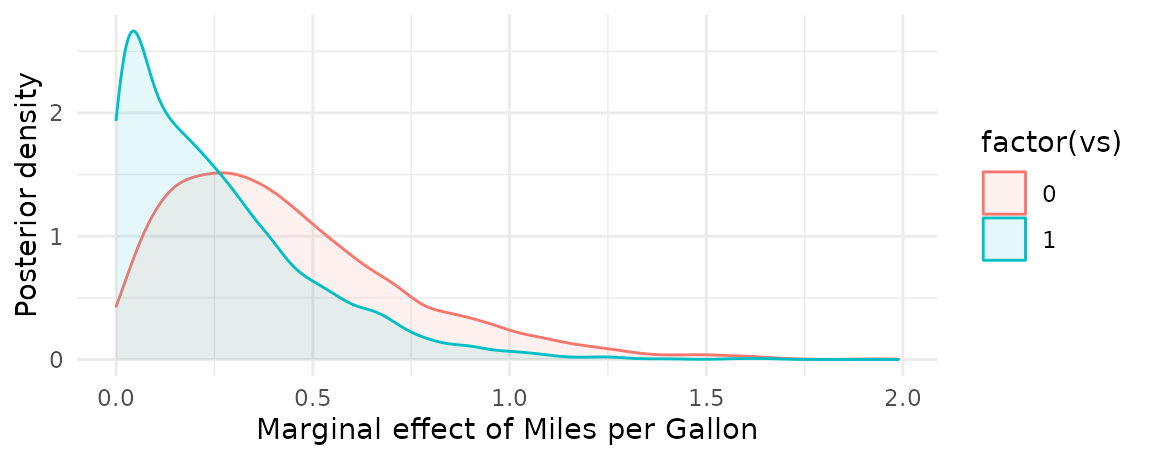
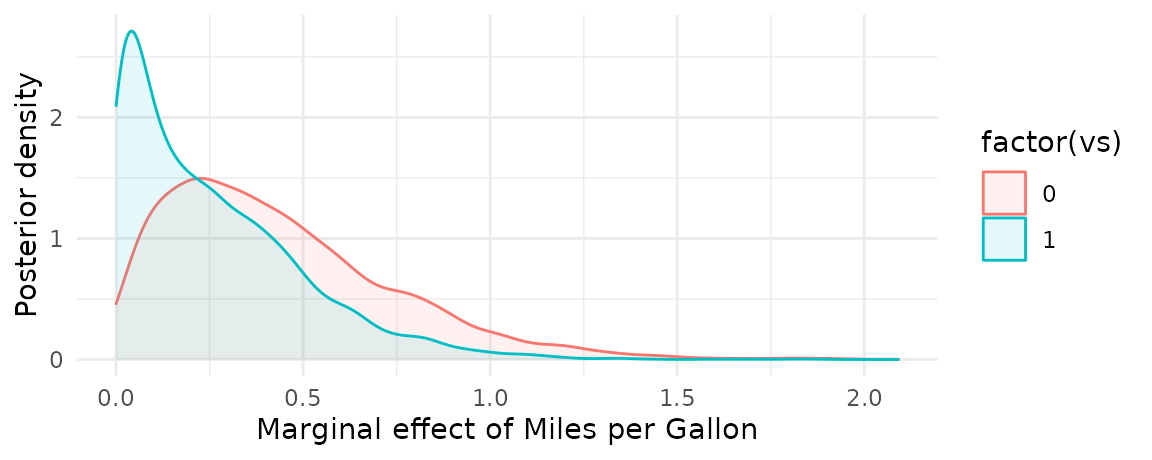
Built site for marginaleffects: 0.2.0@ac5bf27

diff --git a/articles/brms.html b/articles/brms.html
@@ -102,9 +102,9 @@
 <span class="fu"><a href="https://rdrr.io/r/base/summary.html">summary</a></span><span class="op">(</span><span class="va">mfx</span><span class="op">)</span>
 <span class="co">#&gt; Average marginal effects </span>
 <span class="co">#&gt;       type Term    Effect</span>
-<span class="co">#&gt; 1 response   hp  0.008748</span>
-<span class="co">#&gt; 2 response  mpg  0.187486</span>
-<span class="co">#&gt; 3 response   vs -0.135262</span>
+<span class="co">#&gt; 1 response   hp  0.008994</span>
+<span class="co">#&gt; 2 response  mpg  0.193055</span>
+<span class="co">#&gt; 3 response   vs -0.138449</span>
 <span class="co">#&gt; </span>
 <span class="co">#&gt; Model type:  brmsfit </span>
 <span class="co">#&gt; Prediction type:  response</span></code></pre></div>
@@ -112,19 +112,19 @@
 <div class="sourceCode" id="cb5"><pre class="downlit sourceCode r">
 <code class="sourceCode R"><span class="fu"><a href="../reference/marginaleffects.html">marginaleffects</a></span><span class="op">(</span><span class="va">mod</span>, newdata <span class="op">=</span> <span class="fu"><a href="../reference/typical.html">typical</a></span><span class="op">(</span>hp <span class="op">=</span> <span class="fu"><a href="https://rdrr.io/r/base/c.html">c</a></span><span class="op">(</span><span class="fl">110</span>, <span class="fl">130</span><span class="op">)</span><span class="op">)</span><span class="op">)</span>
 <span class="co">#&gt;   rowid     type term         dydx      conf.low  conf.high      mpg     vs  hp</span>
-<span class="co">#&gt; 1     1 response   hp  0.005379927  1.400492e-06 0.01566311 20.09062 0.4375 110</span>
-<span class="co">#&gt; 2     2 response   hp  0.027642162  1.863496e-03 0.05622343 20.09062 0.4375 130</span>
-<span class="co">#&gt; 3     1 response  mpg  0.132641340  3.080997e-05 0.39182148 20.09062 0.4375 110</span>
-<span class="co">#&gt; 4     2 response  mpg  0.643845584  8.507264e-02 1.28841780 20.09062 0.4375 130</span>
-<span class="co">#&gt; 5     1 response   vs -0.063738561 -5.428524e-01 0.22379473 20.09062 0.4375 110</span>
-<span class="co">#&gt; 6     2 response   vs -0.075405783 -1.054792e+00 0.85763938 20.09062 0.4375 130</span>
+<span class="co">#&gt; 1     1 response   hp  0.005062418  5.438801e-08 0.01543354 20.09062 0.4375 110</span>
+<span class="co">#&gt; 2     2 response   hp  0.028804472  2.212520e-03 0.06174098 20.09062 0.4375 130</span>
+<span class="co">#&gt; 3     1 response  mpg  0.125240222  1.312944e-06 0.38150433 20.09062 0.4375 110</span>
+<span class="co">#&gt; 4     2 response  mpg  0.670680746  8.695723e-02 1.39599524 20.09062 0.4375 130</span>
+<span class="co">#&gt; 5     1 response   vs -0.062052844 -4.757080e-01 0.21662912 20.09062 0.4375 110</span>
+<span class="co">#&gt; 6     2 response   vs -0.058560057 -9.940938e-01 0.95145972 20.09062 0.4375 130</span>
 <span class="co">#&gt;    predicted</span>
-<span class="co">#&gt; 1 0.06804419</span>
-<span class="co">#&gt; 2 0.36707414</span>
-<span class="co">#&gt; 3 0.06804419</span>
-<span class="co">#&gt; 4 0.36707414</span>
-<span class="co">#&gt; 5 0.06804419</span>
-<span class="co">#&gt; 6 0.36707414</span></code></pre></div>
+<span class="co">#&gt; 1 0.06380866</span>
+<span class="co">#&gt; 2 0.36366461</span>
+<span class="co">#&gt; 3 0.06380866</span>
+<span class="co">#&gt; 4 0.36366461</span>
+<span class="co">#&gt; 5 0.06380866</span>
+<span class="co">#&gt; 6 0.36366461</span></code></pre></div>
 <p>The <code>get_posterior_draws</code> produces a dataset with <code>drawid</code> and <code>draw</code> columns.</p>
 <div class="sourceCode" id="cb6"><pre class="downlit sourceCode r">
 <code class="sourceCode R"><span class="va">draws</span> <span class="op">&lt;-</span> <span class="fu"><a href="../reference/get_posterior_draws.html">get_posterior_draws</a></span><span class="op">(</span><span class="va">mfx</span><span class="op">)</span>
@@ -134,19 +134,19 @@
 
 <span class="fu"><a href="https://rdrr.io/r/utils/head.html">head</a></span><span class="op">(</span><span class="va">draws</span><span class="op">)</span>
 <span class="co">#&gt;   drawid         draw rowid     type term         dydx     conf.low   conf.high</span>
-<span class="co">#&gt; 1      1 1.482874e+00     1 response   hp 0.0253765680 2.191651e-05 0.055844509</span>
-<span class="co">#&gt; 2      1 1.482874e+00     2 response   hp 0.0253765680 2.191651e-05 0.055844509</span>
-<span class="co">#&gt; 3      1 8.030922e-01     3 response   hp 0.0299021668 3.503304e-03 0.060512445</span>
-<span class="co">#&gt; 4      1 7.760797e-01     4 response   hp 0.0263014415 3.665785e-04 0.056640550</span>
-<span class="co">#&gt; 5      1 1.948255e+00     5 response   hp 0.0290059928 4.169682e-03 0.059892842</span>
-<span class="co">#&gt; 6      1 1.152075e-05     6 response   hp 0.0003614295 7.384338e-15 0.002040832</span>
+<span class="co">#&gt; 1      1 0.6085334785     1 response   hp 0.0264821695 2.428567e-05 0.058938094</span>
+<span class="co">#&gt; 2      1 0.6085334785     2 response   hp 0.0264821695 2.428567e-05 0.058938094</span>
+<span class="co">#&gt; 3      1 0.6445612115     3 response   hp 0.0313518750 2.353663e-03 0.064677864</span>
+<span class="co">#&gt; 4      1 0.1994017037     4 response   hp 0.0276982247 6.189839e-05 0.061728891</span>
+<span class="co">#&gt; 5      1 0.7764987222     5 response   hp 0.0300656034 3.301046e-03 0.063767414</span>
+<span class="co">#&gt; 6      1 0.0000221999     6 response   hp 0.0003024188 1.154791e-17 0.001633714</span>
 <span class="co">#&gt;   am  mpg vs  hp   predicted</span>
-<span class="co">#&gt; 1  1 21.0  0 110 0.597577418</span>
-<span class="co">#&gt; 2  1 21.0  0 110 0.597577418</span>
-<span class="co">#&gt; 3  1 22.8  1  93 0.464222815</span>
-<span class="co">#&gt; 4  0 21.4  1 110 0.332725916</span>
-<span class="co">#&gt; 5  0 18.7  0 175 0.531365198</span>
-<span class="co">#&gt; 6  0 18.1  1 105 0.005116426</span></code></pre></div>
+<span class="co">#&gt; 1  1 21.0  0 110 0.600646231</span>
+<span class="co">#&gt; 2  1 21.0  0 110 0.600646231</span>
+<span class="co">#&gt; 3  1 22.8  1  93 0.469913093</span>
+<span class="co">#&gt; 4  0 21.4  1 110 0.333913826</span>
+<span class="co">#&gt; 5  0 18.7  0 175 0.525744077</span>
+<span class="co">#&gt; 6  0 18.1  1 105 0.004290362</span></code></pre></div>
 <p>We can use this dataset to plot our results. For example, to plot the posterior density of the marginal effect when the <code>vs</code> variable is equal to 0 or 1:</p>
 <div class="sourceCode" id="cb7"><pre class="downlit sourceCode r">
 <code class="sourceCode R"><span class="fu"><a href="../reference/marginaleffects.html">marginaleffects</a></span><span class="op">(</span><span class="va">mod</span>, variables <span class="op">=</span> <span class="st">"mpg"</span>, newdata <span class="op">=</span> <span class="fu"><a href="../reference/typical.html">typical</a></span><span class="op">(</span>vs <span class="op">=</span> <span class="fl">0</span><span class="op">:</span><span class="fl">1</span><span class="op">)</span><span class="op">)</span> |&gt;

diff --git a/articles/mfx.html b/articles/mfx.html
@@ -258,12 +258,12 @@
 <span class="fu"><a href="../reference/marginaleffects.html">marginaleffects</a></span><span class="op">(</span><span class="va">mod</span>, newdata <span class="op">=</span> <span class="fu"><a href="../reference/typical.html">typical</a></span><span class="op">(</span>x <span class="op">=</span> <span class="op">-</span><span class="fl">2</span><span class="op">:</span><span class="fl">2</span><span class="op">)</span><span class="op">)</span>  <span class="op"><a href="https://magrittr.tidyverse.org/reference/pipe.html">%&gt;%</a></span>
     <span class="fu"><a href="https://dplyr.tidyverse.org/reference/mutate.html">mutate</a></span><span class="op">(</span>truth <span class="op">=</span> <span class="fl">1</span> <span class="op">+</span> <span class="fl">4</span> <span class="op">*</span> <span class="va">x</span><span class="op">)</span> <span class="op"><a href="https://magrittr.tidyverse.org/reference/pipe.html">%&gt;%</a></span>
     <span class="fu"><a href="https://dplyr.tidyverse.org/reference/select.html">select</a></span><span class="op">(</span><span class="va">dydx</span>, <span class="va">truth</span><span class="op">)</span>
-<span class="co">#&gt;         dydx truth</span>
-<span class="co">#&gt; 1 -7.0205356    -7</span>
-<span class="co">#&gt; 2 -3.0125902    -3</span>
-<span class="co">#&gt; 3  0.9953552     1</span>
-<span class="co">#&gt; 4  5.0033005     5</span>
-<span class="co">#&gt; 5  9.0112459     9</span></code></pre></div>
+<span class="co">#&gt;        dydx truth</span>
+<span class="co">#&gt; 1 -6.985201    -7</span>
+<span class="co">#&gt; 2 -2.991074    -3</span>
+<span class="co">#&gt; 3  1.003052     1</span>
+<span class="co">#&gt; 4  4.997178     5</span>
+<span class="co">#&gt; 5  8.991304     9</span></code></pre></div>
 <p>We can also plot the result with the <code>plot_cme</code> function (see section below):</p>
 <div class="sourceCode" id="cb12"><pre class="downlit sourceCode r">
 <code class="sourceCode R"><span class="fu"><a href="../reference/plot_cme.html">plot_cme</a></span><span class="op">(</span><span class="va">mod</span>, effect <span class="op">=</span> <span class="st">"x"</span>, condition <span class="op">=</span> <span class="st">"x"</span><span class="op">)</span></code></pre></div>
